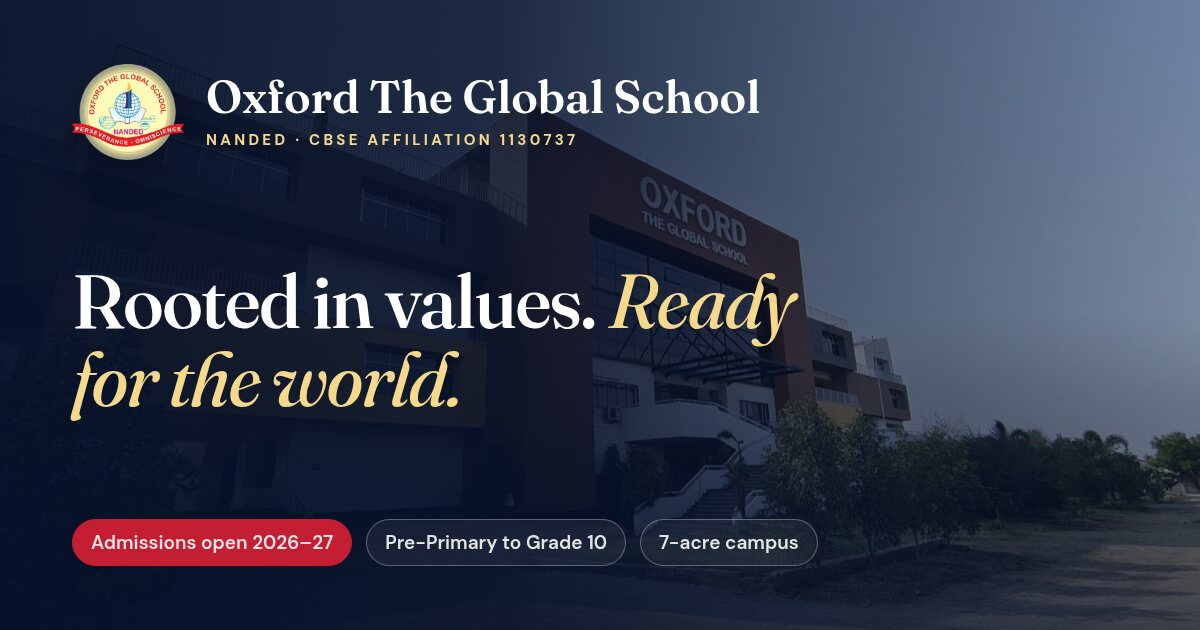
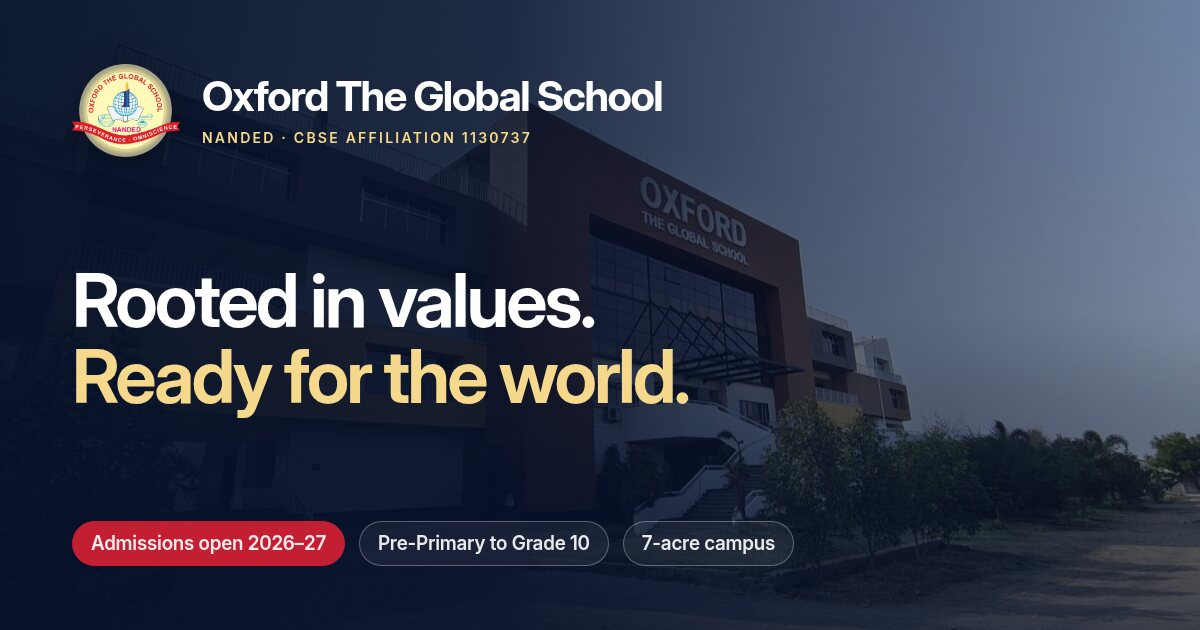
Switch typography to Inter for a cleaner, more professional look
Replace the Fraunces display serif and DM Sans body face with a single
Inter variable family (with its Display optical size for headlines).

- Headlines are heavier with tighter tracking; accent phrases change
  colour (Oxford blue on light backgrounds, gold on dark) instead of
  switching to italics
- Decorative italic quotes and the leadership drop cap are now upright
- Social preview image re-rendered in Inter
- One font file instead of three on most pages

Changed region(s): [[0.0617, 0.4222, 0.6783, 0.6635], [0.0617, 0.0905, 0.6475, 0.2714], [0.0617, 0.8143, 0.6783, 0.9048]]

diff --git a/src/styles/global.css b/src/styles/global.css
@@ -36,8 +36,9 @@
   --line: #e4ddcf;
   --line-2: #d4cbb8;
 
-  --font-display: 'Fraunces Variable', 'Iowan Old Style', 'Palatino Linotype', Georgia, serif;
-  --font-sans: 'DM Sans Variable', ui-sans-serif, system-ui, -apple-system, 'Segoe UI', Roboto, sans-serif;
+  --font-sans: 'Inter Variable', 'Inter', ui-sans-serif, system-ui, -apple-system, 'Segoe UI', Roboto, 'Helvetica Neue', Arial, sans-serif;
+  --font-display: var(--font-sans);
+  --accent-ink: var(--navy-600);
 
   --radius-xs: 6px;
   --radius-sm: 10px;
@@ -86,14 +87,15 @@ html {
 body {
   min-height: 100dvh;
   font-family: var(--font-sans);
-  font-size: 1.0625rem;
-  line-height: 1.65;
+  font-size: 1rem;
+  line-height: 1.7;
   color: var(--ink-2);
   background: var(--paper);
   -webkit-font-smoothing: antialiased;
   -moz-osx-font-smoothing: grayscale;
   text-rendering: optimizeLegibility;
   overflow-x: clip;
+  font-feature-settings: 'cv05', 'cv08';
 }
 
 img,
@@ -165,50 +167,63 @@ h4,
   font-family: var(--font-display);
   font-optical-sizing: auto;
   color: var(--ink);
-  font-weight: 540;
-  line-height: 1.08;
-  letter-spacing: -0.018em;
+  font-weight: 650;
+  line-height: 1.1;
+  letter-spacing: -0.025em;
   text-wrap: balance;
 }
 
+/* Headline accents are a colour shift, not italics. */
 h1 em,
 h2 em,
 h3 em,
 .display em {
-  font-style: italic;
-  font-weight: 460;
+  font-style: normal;
+  font-weight: inherit;
+  color: var(--accent-ink);
+}
+
+.on-dark h1 em,
+.on-dark h2 em,
+.on-dark h3 em,
+.on-dark .display em {
+  color: var(--gold-300);
 }
 
 .t-display {
-  font-size: clamp(2.75rem, 1.2rem + 6.2vw, 6.25rem);
-  line-height: 0.98;
-  letter-spacing: -0.028em;
+  font-size: clamp(2.6rem, 1rem + 5vw, 5rem);
+  line-height: 1;
+  letter-spacing: -0.04em;
 }
 
 .t-h1 {
-  font-size: clamp(2.4rem, 1.3rem + 4.2vw, 4.5rem);
-  line-height: 1.02;
-  letter-spacing: -0.025em;
+  font-size: clamp(2.25rem, 1.2rem + 3.4vw, 3.75rem);
+  line-height: 1.04;
+  letter-spacing: -0.035em;
 }
 
 .t-h2 {
-  font-size: clamp(2rem, 1.25rem + 2.8vw, 3.4rem);
+  font-size: clamp(1.85rem, 1.1rem + 2.2vw, 2.9rem);
+  letter-spacing: -0.03em;
+  line-height: 1.1;
 }
 
 .t-h3 {
-  font-size: clamp(1.4rem, 1.1rem + 0.9vw, 1.85rem);
-  line-height: 1.15;
+  font-size: clamp(1.3rem, 1.05rem + 0.7vw, 1.6rem);
+  line-height: 1.2;
+  letter-spacing: -0.02em;
 }
 
 .t-h4 {
-  font-size: 1.25rem;
-  line-height: 1.25;
-  letter-spacing: -0.01em;
+  font-size: 1.15rem;
+  line-height: 1.3;
+  letter-spacing: -0.012em;
+  font-weight: 620;
 }
 
 .lead {
-  font-size: clamp(1.125rem, 0.95rem + 0.6vw, 1.35rem);
-  line-height: 1.6;
+  font-size: clamp(1.075rem, 0.95rem + 0.45vw, 1.25rem);
+  line-height: 1.65;
   color: var(--ink-2);
   text-wrap: pretty;
 }
@@ -230,10 +245,10 @@ h3 em,
   align-items: center;
   gap: 0.75rem;
   font-family: var(--font-sans);
-  font-size: 0.78rem;
-  font-weight: 650;
+  font-size: 0.75rem;
+  font-weight: 600;
   line-height: 1.2;
-  letter-spacing: 0.18em;
+  letter-spacing: 0.14em;
   text-transform: uppercase;
   color: var(--red-600);
 }
@@ -402,14 +417,13 @@ h3 em,
   background: var(--btn-bg);
   color: var(--btn-fg);
   font-family: var(--font-sans);
-  font-size: 0.975rem;
-  font-weight: 620;
+  font-size: 0.95rem;
+  font-weight: 600;
   line-height: 1.1;
-  letter-spacing: 0.005em;
+  letter-spacing: -0.005em;
   text-decoration: none;
   white-space: nowrap;
-  transition:
-    background-color 0.25s var(--ease),
+  transition: background-color 0.25s var(--ease),
     color 0.25s var(--ease),
     border-color 0.25s var(--ease),
     transform 0.25s var(--ease),
@@ -512,10 +526,10 @@ h3 em,
   display: inline-flex;
   align-items: center;
   gap: 0.45rem;
-  font-weight: 650;
+  font-weight: 600;
   color: var(--red-600);
   text-decoration: none;
-  font-size: 0.975rem;
+  font-size: 0.95rem;
 }
 
 .link-arrow svg {
@@ -579,7 +593,7 @@ h3 em,
   background: var(--white);
   color: var(--ink-2);
   font-size: 0.85rem;
-  font-weight: 560;
+  font-weight: 500;
   line-height: 1.2;
 }
 
@@ -666,7 +680,7 @@ h3 em,
 
 .field label {
   font-size: 0.875rem;
-  font-weight: 620;
+  font-weight: 600;
   color: var(--ink);
 }
 
